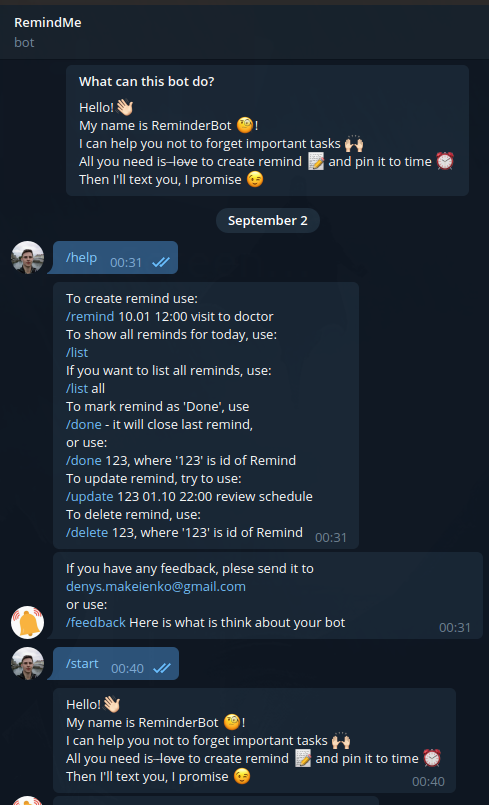
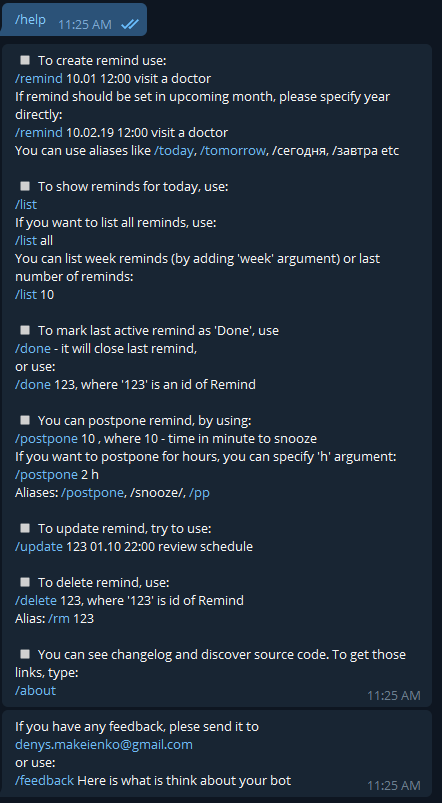
README update

Changed region(s): [[0.0, 0.0, 1.0, 1.0], [0.6471, 0.6538, 0.7059, 0.6849], [0.9118, 0.7783, 0.9412, 0.8095]]

diff --git a/README.md b/README.md
@@ -3,34 +3,19 @@
 This is a RemindMe Bot. It will help you remember important things through Telegram.
 You can add this bot at Telegram as @how_to_find_name_for_bot or by the [link](https://t.me/how_to_find_name_for_bot)
 
-![Interface](media/bot.png)
-
 ## Available commands
 
-```
-To create remind use:
-/remind 10.01 12:00 visit to doctor
+![Help](media/bot.png)
 
-To show all reminds for today, use:
-/list 
 
-If you want to list all reminds, use:
-/list all
+## Interface
 
-To mark remind as 'Done', use
-/done - it will close last remind, 
-or use:
-/done 123, where '123' is id of Remind
+### Remind
+![Remind](media/remind.png)
 
-To update remind, try to use:
-/update 123 01.10 22:00 review schedule
+### List (today)
+![List](media/list.png)
 
-To delete remind, use:
-/delete 123, where '123' is id of Remind
-
-To send feedback
-/feedback text
-```
 
 # Installing
 
